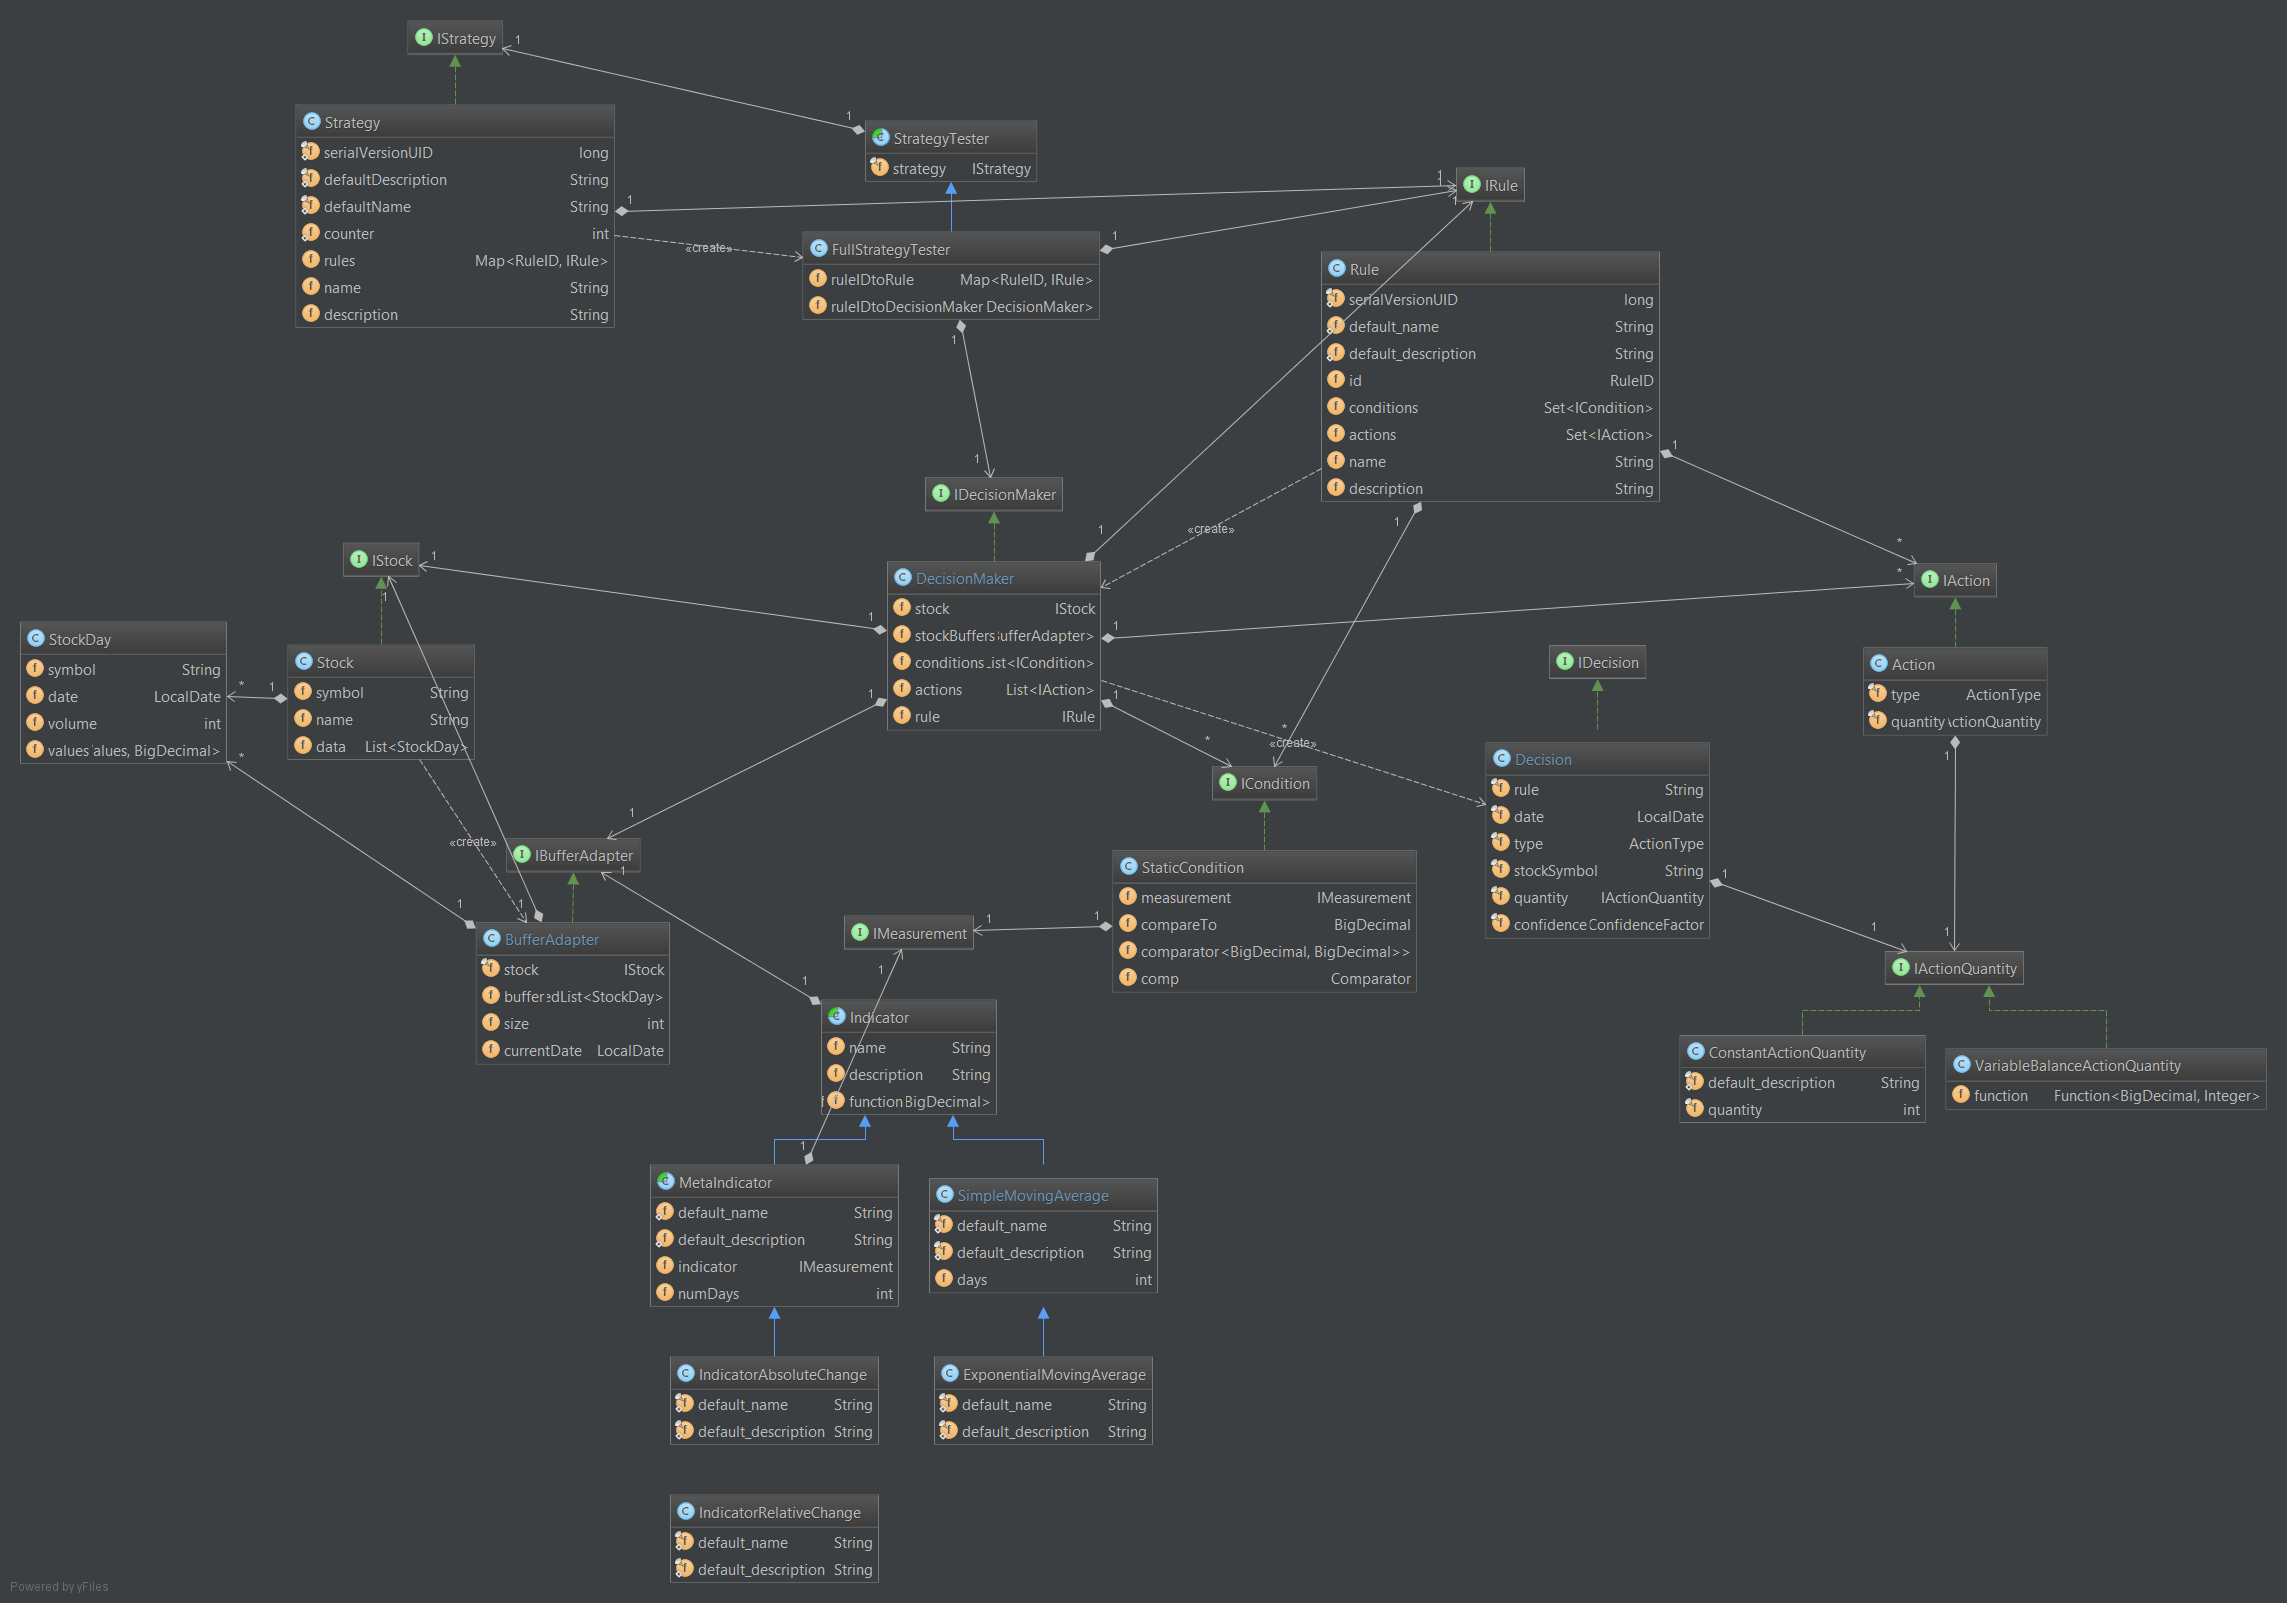
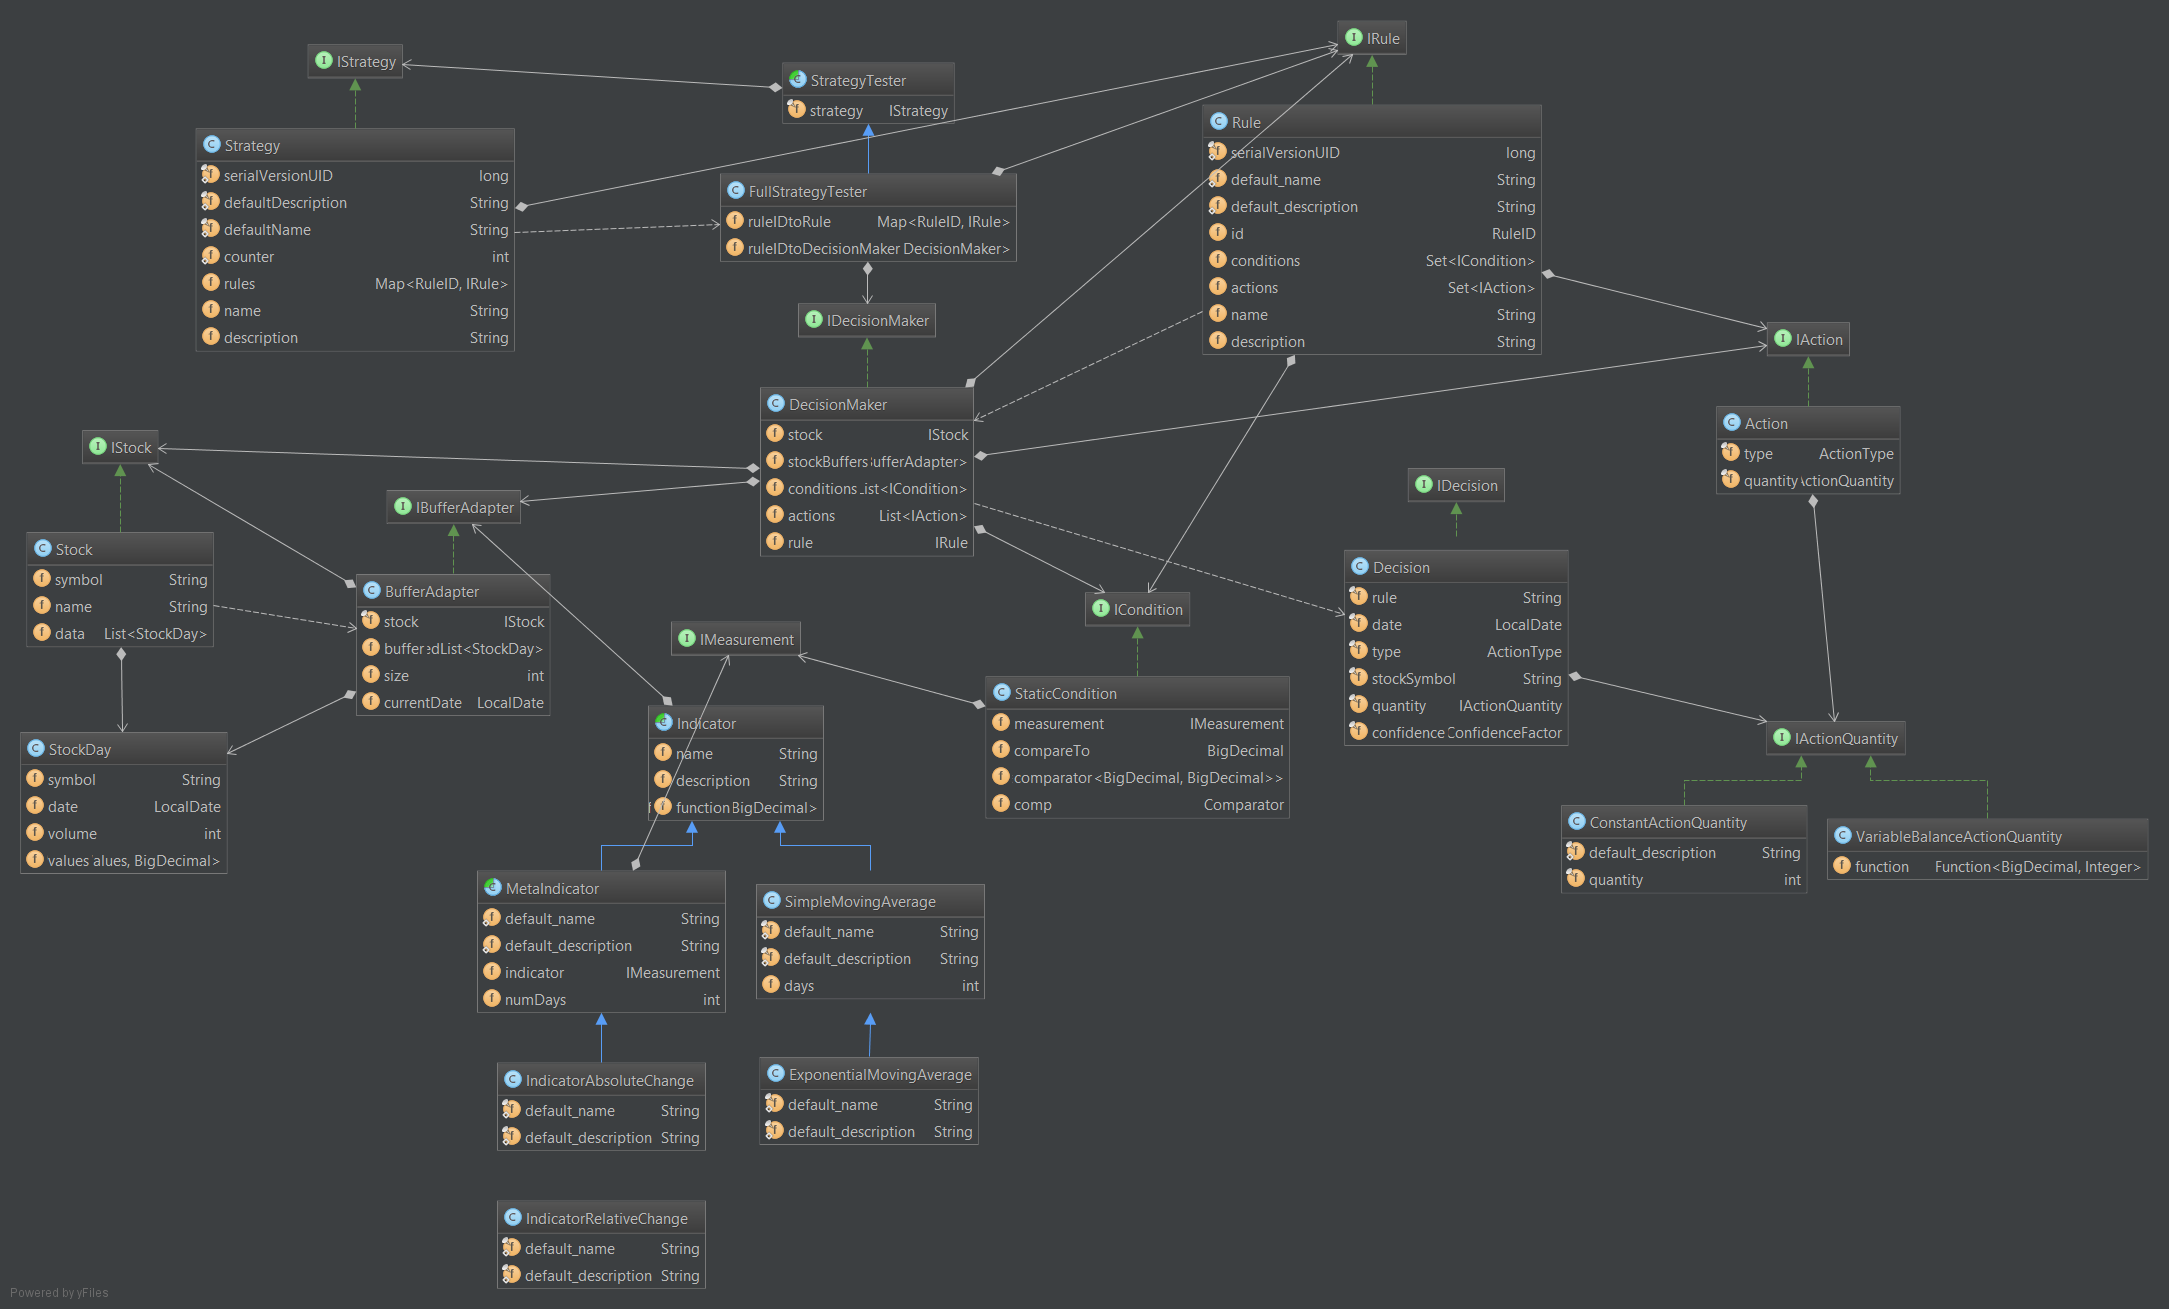
Major package reorganization in strategy - Refactored rules data structure classes into rules subpackage - Moved StockLoader into application package - Moved IBufferAdapter and BufferAdapter into stocks package

diff --git a/automated-trading-simulator/src/main/java/autotradingsim/strategy/rules/Action.java b/automated-trading-simulator/src/main/java/autotradingsim/strategy/rules/Action.java
@@ -1,4 +1,4 @@
-package autotradingsim.strategy;
+package autotradingsim.strategy.rules;
 
 import autotradingsim.experiment.Experiment;
 import autotradingsim.experiment.ResultDay;
@@ -8,14 +8,14 @@ import java.math.BigDecimal;
 import java.util.function.Function;
 
 /**
- * <p>Actions always specify a type (through enum {@link autotradingsim.strategy.IAction.ActionType}) and a quantity.</p>
+ * <p>Actions always specify a type (through enum {@link IAction.ActionType}) and a quantity.</p>
  * <p>Quantity can be specified in three ways:<br>
  *     <li>As a constant integer value</li>
  *     <li>As a fraction of balance (see {@link Experiment#runExperiment(TimeSet)} and {@link
  *     ResultDay#getClosingBalance()}), such that the quantity bought or sold will be the quotient of the given
  *     fraction divided by the value of the stock</li>
  *     <li>As a {@link IActionQuantity} function, which returns an integer quantity based on three parameters: balance,
- *     stock value, and a confidence factor (see enum {@link autotradingsim.strategy.IActionQuantity.ConfidenceFactor}</li>
+ *     stock value, and a confidence factor (see enum {@link IActionQuantity.ConfidenceFactor}</li>
  * </p>
  */
 public class Action implements IAction {

diff --git a/automated-trading-simulator/src/main/java/autotradingsim/util/StrategyDemoFactory.java b/automated-trading-simulator/src/main/java/autotradingsim/util/StrategyDemoFactory.java
@@ -2,6 +2,7 @@ package autotradingsim.util;
 
 import autotradingsim.strategy.*;
 import autotradingsim.strategy.indicators.SimpleMovingAverage;
+import autotradingsim.strategy.rules.*;
 
 import java.math.BigDecimal;
 
@@ -16,9 +17,9 @@ public class StrategyDemoFactory {
      *     <li>IConditions use {@link SimpleMovingAverage} with <tt>numDays == 1</tt> (equivalent to deprecated {@link
      * autotradingsim.deprecated.simpleimpl.SimpleStockValue})</li>
      *     <li>IActions are {@link Action} constructed with constant <tt>quantity == 10</tt></li>
-     *     <li>The rule with the {@link autotradingsim.strategy.IAction.ActionType#BUY} action will buy when stock
+     *     <li>The rule with the {@link IAction.ActionType#BUY} action will buy when stock
      *     value <= 100</li>
-     *     <li>The rule with the {@link autotradingsim.strategy.IAction.ActionType#SELL} action will sell when stock
+     *     <li>The rule with the {@link IAction.ActionType#SELL} action will sell when stock
      *     value >= 150</li>
      * </ul></p>
      */

diff --git a/automated-trading-simulator/src/main/java/autotradingsim/deprecated/simpleimpl/SimpleAction.java b/automated-trading-simulator/src/main/java/autotradingsim/deprecated/simpleimpl/SimpleAction.java
@@ -1,8 +1,9 @@
 package autotradingsim.deprecated.simpleimpl;
 
-import autotradingsim.strategy.ConstantActionQuantity;
-import autotradingsim.strategy.IAction;
-import autotradingsim.strategy.IActionQuantity;
+import autotradingsim.strategy.rules.Action;
+import autotradingsim.strategy.rules.ConstantActionQuantity;
+import autotradingsim.strategy.rules.IAction;
+import autotradingsim.strategy.rules.IActionQuantity;
 
 /**
  * Created by Asher on 2015-10-30.
@@ -13,7 +14,7 @@ import autotradingsim.strategy.IActionQuantity;
  * <b>not</b> take a constant quantity as a parameter to the constructor.  Consider implementing a
  * "quantity function builder"</p>
  *
- * <p>**Deprecated in favour of {@link autotradingsim.strategy.Action}, which has an equivalent constructor option.</p>
+ * <p>**Deprecated in favour of {@link Action}, which has an equivalent constructor option.</p>
  *
  */
 public class SimpleAction implements IAction {

diff --git a/automated-trading-simulator/src/test/java/autotradingsim/strategy/indicators/SimpleMovingAverageTest.java b/automated-trading-simulator/src/test/java/autotradingsim/strategy/indicators/SimpleMovingAverageTest.java
@@ -4,17 +4,15 @@ import autotradingsim.application.TradingApplication;
 import autotradingsim.stocks.IStock;
 import autotradingsim.stocks.Stock;
 import autotradingsim.stocks.StockDay;
-import autotradingsim.strategy.IBufferAdapter;
-import autotradingsim.strategy.IMeasurement;
+import autotradingsim.stocks.IBufferAdapter;
+import autotradingsim.strategy.rules.IMeasurement;
 import org.junit.Before;
 import org.junit.Test;
 
 import java.math.BigDecimal;
 import java.time.LocalDate;
 import java.time.Month;
-import java.time.Period;
 import java.time.temporal.ChronoUnit;
-import java.time.temporal.TemporalUnit;
 import java.util.ArrayList;
 import java.util.stream.*;
 

diff --git a/automated-trading-simulator/src/test/java/autotradingsim/strategy/StaticConditionTest.java b/automated-trading-simulator/src/test/java/autotradingsim/strategy/StaticConditionTest.java
@@ -1,12 +1,15 @@
 package autotradingsim.strategy;
 
 import autotradingsim.application.TradingApplication;
+import autotradingsim.stocks.IBufferAdapter;
 import autotradingsim.stocks.IStock;
 import autotradingsim.stocks.Stock;
 import autotradingsim.stocks.StockDay;
 import autotradingsim.strategy.indicators.IndicatorRelativeChange;
 import autotradingsim.strategy.indicators.SimpleMovingAverage;
 import autotradingsim.deprecated.simpleimpl.SimpleStockValue;
+import autotradingsim.strategy.rules.ICondition;
+import autotradingsim.strategy.rules.StaticCondition;
 import org.junit.Before;
 import org.junit.Test;
 

diff --git a/automated-trading-simulator/src/main/java/autotradingsim/engine/StrategyEngine.java b/automated-trading-simulator/src/main/java/autotradingsim/engine/StrategyEngine.java
@@ -3,11 +3,11 @@ package autotradingsim.engine;
 import java.math.BigDecimal;
 
 import autotradingsim.application.TradingApplication;
-import autotradingsim.strategy.IAction;
+import autotradingsim.strategy.rules.IAction;
 import autotradingsim.strategy.IStrategy;
 import autotradingsim.deprecated.simpleimpl.*;
 import autotradingsim.strategy.Strategy;
-import autotradingsim.strategy.ICondition.Comparator;
+import autotradingsim.strategy.rules.ICondition.Comparator;
 
 public class StrategyEngine {
 	public TradingApplication appEngine;

diff --git a/automated-trading-simulator/src/test/java/autotradingsim/deprecated/simpleimpl/SimpleConditionTest.java b/automated-trading-simulator/src/test/java/autotradingsim/deprecated/simpleimpl/SimpleConditionTest.java
@@ -1,11 +1,10 @@
 package autotradingsim.deprecated.simpleimpl;
 
-import autotradingsim.application.TradingApplication;
 import autotradingsim.stocks.IStock;
 import autotradingsim.stocks.Stock;
 import autotradingsim.stocks.StockDay;
-import autotradingsim.strategy.IBufferAdapter;
-import autotradingsim.strategy.ICondition;
+import autotradingsim.stocks.IBufferAdapter;
+import autotradingsim.strategy.rules.ICondition;
 import org.junit.After;
 import org.junit.Before;
 import org.junit.Test;

diff --git a/automated-trading-simulator/src/main/java/autotradingsim/deprecated/simpleimpl/SimpleDecisionMaker.java b/automated-trading-simulator/src/main/java/autotradingsim/deprecated/simpleimpl/SimpleDecisionMaker.java
@@ -1,8 +1,12 @@
 package autotradingsim.deprecated.simpleimpl;
 
-import autotradingsim.application.TradingApplication;
+import autotradingsim.stocks.IBufferAdapter;
 import autotradingsim.stocks.IStock;
 import autotradingsim.strategy.*;
+import autotradingsim.strategy.rules.IAction;
+import autotradingsim.strategy.rules.IActionQuantity;
+import autotradingsim.strategy.rules.ICondition;
+import autotradingsim.strategy.rules.IDecisionMaker;
 
 import java.time.LocalDate;
 import java.util.*;

diff --git a/automated-trading-simulator/src/main/java/autotradingsim/deprecated/simpleimpl/SimpleStockValue.java b/automated-trading-simulator/src/main/java/autotradingsim/deprecated/simpleimpl/SimpleStockValue.java
@@ -2,8 +2,8 @@ package autotradingsim.deprecated.simpleimpl;
 
 import autotradingsim.stocks.IStock;
 import autotradingsim.stocks.StockDay;
-import autotradingsim.strategy.IBufferAdapter;
-import autotradingsim.strategy.IMeasurement;
+import autotradingsim.stocks.IBufferAdapter;
+import autotradingsim.strategy.rules.IMeasurement;
 import autotradingsim.strategy.exceptions.DataNotProvidedException;
 
 import java.io.Serializable;

diff --git a/automated-trading-simulator/src/main/java/autotradingsim/deprecated/simpleimpl/SimpleCondition.java b/automated-trading-simulator/src/main/java/autotradingsim/deprecated/simpleimpl/SimpleCondition.java
@@ -1,8 +1,8 @@
 package autotradingsim.deprecated.simpleimpl;
 
-import autotradingsim.strategy.IBufferAdapter;
-import autotradingsim.strategy.ICondition;
-import autotradingsim.strategy.IMeasurement;
+import autotradingsim.stocks.IBufferAdapter;
+import autotradingsim.strategy.rules.ICondition;
+import autotradingsim.strategy.rules.IMeasurement;
 import autotradingsim.util.Pair;
 
 import java.io.Serializable;

diff --git a/automated-trading-simulator/src/test/java/autotradingsim/deprecated/simpleimpl/SimpleStrategyTesterTest.java b/automated-trading-simulator/src/test/java/autotradingsim/deprecated/simpleimpl/SimpleStrategyTesterTest.java
@@ -1,8 +1,8 @@
 package autotradingsim.deprecated.simpleimpl;
 
-import autotradingsim.strategy.IDecisionMaker;
+import autotradingsim.strategy.rules.IDecisionMaker;
 import autotradingsim.strategy.IStrategy;
-import autotradingsim.strategy.RuleID;
+import autotradingsim.strategy.rules.RuleID;
 import autotradingsim.strategy.StrategyTester;
 import org.junit.Before;
 import org.junit.Test;

diff --git a/automated-trading-simulator/src/main/java/autotradingsim/strategy/Strategy.java b/automated-trading-simulator/src/main/java/autotradingsim/strategy/Strategy.java
@@ -2,6 +2,9 @@ package autotradingsim.strategy;
 
 import autotradingsim.strategy.exceptions.DuplicateEntryException;
 import autotradingsim.strategy.exceptions.RuleDoesNotExistException;
+import autotradingsim.strategy.rules.IDecisionMaker;
+import autotradingsim.strategy.rules.IRule;
+import autotradingsim.strategy.rules.RuleID;
 
 import java.io.Serializable;
 import java.util.HashMap;
